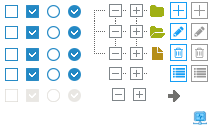
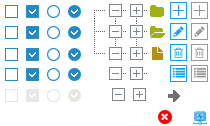
添加图片

Changed region(s): [[0.7429, 0.8571, 0.8286, 1.0]]

diff --git a/static/hplus/css/zTree/bootstrapStyle.css b/static/hplus/css/zTree/bootstrapStyle.css
@@ -62,6 +62,10 @@ website:    http://code.google.com/p/jquerytree/
 .ztree li span.button.bottom_open{background-position: -105px -42px;}
 .ztree li span.button.bottom_close{background-position: -126px -42px;}
 .ztree li span.button.middleware_ico_docu{background-position: -189px -109px;}
+
+.ztree li span.button.empty_ico_docu{background-position: -155px -109px;}
+
+
 .ztree li span.button.noline_open{background-position: -105px -84px;}
 .ztree li span.button.noline_close{background-position: -126px -84px;}
 .ztree li span.button.root_docu{ background:none;}
